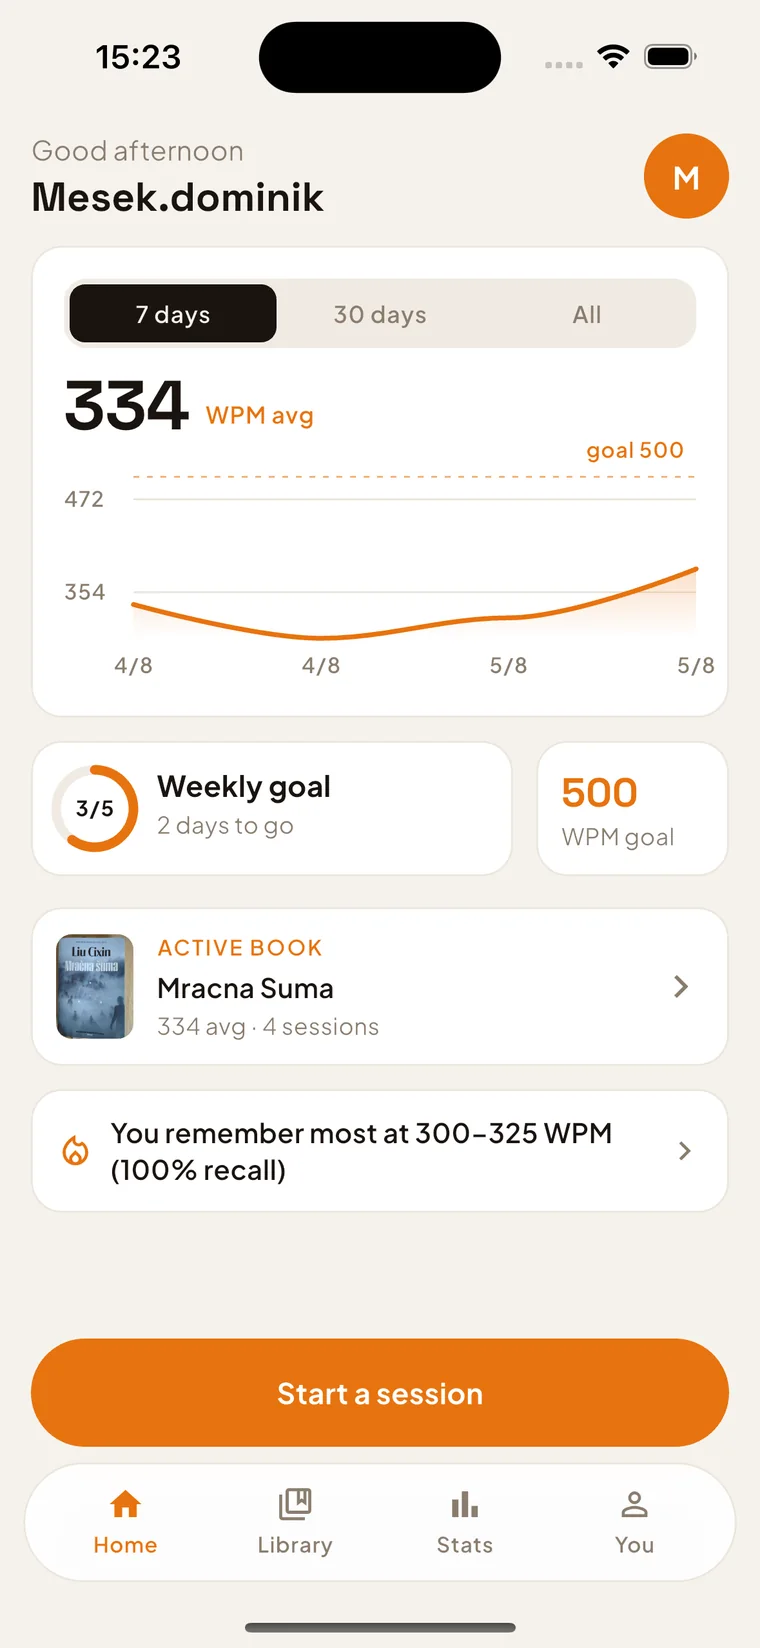
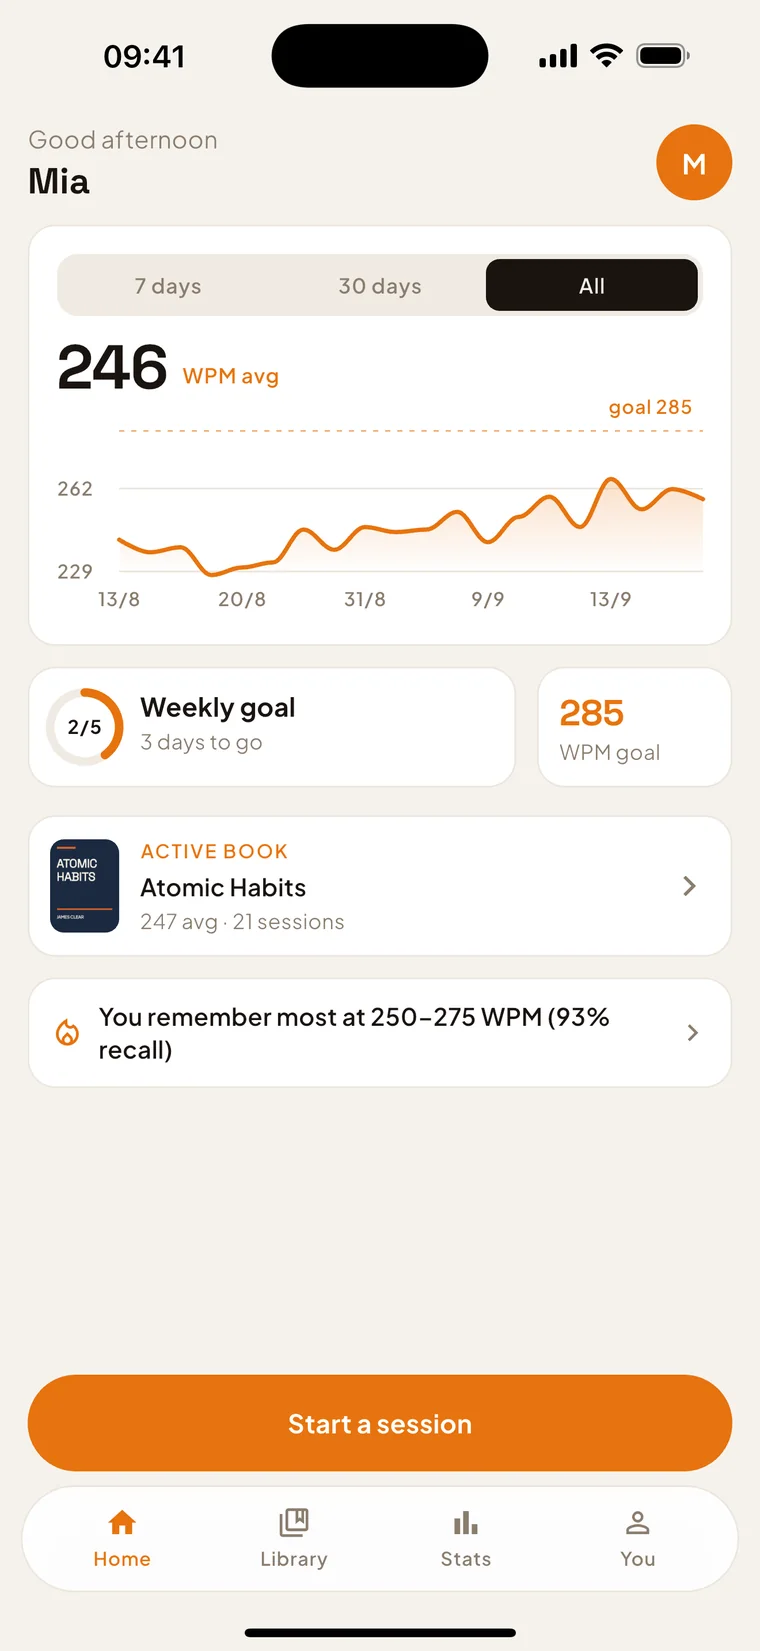
chore(screens): refresh app screenshots from latest captures
Replace every on-page screenshot with the current app captures. Alt text
is rewritten to match the new figures, since it also feeds the JSON-LD
`screenshot` entries and /llms.txt — stale numbers there would contradict
the images.

The hero and gallery `home` tile use the all-time range, which shows the
fuller trend line than the 7-day view.

Three screens had no counterpart in the new set:

- `scan` keeps its earlier export. It is a static camera-permission
  prompt with no data on it, so it does not clash with the new shots.
- `trend`, `productive` and `goal` are dropped. Their only versions
  showed a 500 WPM goal and afternoon as the peak window, against the
  new 285 goal and evening — two datasets in one gallery.

Those slots now hold the comprehension flow (quiz, score, review), and
step 03 moves from the book detail to the recall score, which matches
the copy more directly.

Intrinsic height goes 1648 -> 1651; the new captures are 1320x2868.
`scan` keeps 1648 explicitly.

diff --git a/content/site.ts b/content/site.ts
@@ -118,7 +118,7 @@ export type Screen = {
   h: number;
 };
 
-const S = (src: string, caption: string, alt: string, h = 1648): Screen => ({
+const S = (src: string, caption: string, alt: string, h = 1651): Screen => ({
   src: `/screens/${src}.webp`,
   caption,
   alt,
@@ -130,68 +130,68 @@ export const screens = {
   home: S(
     "home",
     "Home",
-    "ReadPace home screen showing a 334 WPM 7-day average, a rising WPM trend chart against a 500 WPM goal, weekly goal progress, the active book and a sweet-spot insight card reading “You remember most at 300–325 WPM (100% recall)”.",
+    "ReadPace home screen showing a 246 WPM all-time average against a 285 WPM goal, a rising reading-speed chart, weekly goal progress at 2 of 5, the active book “Atomic Habits” at 247 WPM average over 21 sessions and a sweet-spot insight card reading “You remember most at 250–275 WPM (93% recall)”.",
   ),
   sweetSpot: S(
     "sweet-spot",
     "Reading sweet spot",
-    "ReadPace reading sweet spot screen: recall grouped into 25-WPM bands, with the 300–325 WPM band highlighted at 100% recall and a note that recall drops to 50% above 325 WPM.",
+    "ReadPace reading sweet spot screen: recall grouped into 25-WPM bands, with the 250–275 WPM band highlighted at 93% recall and a note that recall drops to 78% above 275 WPM.",
   ),
   timer: S(
     "timer",
     "Session timer",
-    "ReadPace reading session timer running at 0:08 with the active book “Mracna Suma” and Pause and “Finish & scan” buttons.",
+    "ReadPace reading session timer running at 34:00 with the active book “Atomic Habits” and Pause and “Finish & scan” buttons.",
   ),
   scan: S(
     "scan",
     "Page scan",
     "ReadPace camera prompt: “Scan the page to count the words”, noting the camera is used only to count words and that photos are processed on the device and never leave the phone.",
+    1648,
+  ),
+  quiz: S(
+    "quiz",
+    "Comprehension quiz",
+    "ReadPace comprehension quiz, question 1 of 6, asking what the author says is the real difference between goals and systems, with three answer options and a “No idea” escape.",
+  ),
+  score: S(
+    "score",
+    "Recall score",
+    "ReadPace comprehension result: 83% recall marked “strong recall”, alongside 271 WPM and 5 of 6 correct, with a note that this session landed right in the reader's sweet spot.",
+  ),
+  review: S(
+    "review",
+    "Answer review",
+    "ReadPace quiz review listing all six questions with the correct answers marked in green and the one missed answer struck through in red beside the correct one.",
   ),
   book: S(
     "book",
     "Book detail",
-    "ReadPace book detail for “Mracna Suma” showing 295 low, 334 average and 383 high WPM, 73% average recall across 4 tested sessions, a speed-across-sessions chart and recent sessions with WPM and recall rings.",
+    "ReadPace book detail for “Atomic Habits” showing 228 low, 247 average and 271 high WPM, 89% average recall across 16 tested sessions, a speed-across-sessions chart and recent sessions with WPM and recall rings.",
   ),
   stats: S(
     "stats",
     "Stats",
-    "ReadPace stats screen with a 30-day WPM chart, 383 personal best, 9 sessions, 302 average WPM, a most-productive-time chart favouring the afternoon and the reading sweet-spot card.",
-    1551,
-  ),
-  trend: S(
-    "trend",
-    "WPM over time",
-    "ReadPace “WPM over time” detail screen showing 383 WPM latest over the last 30 days and the explanation that WPM equals words read divided by minutes read.",
+    "ReadPace stats screen with a 30-day WPM chart against a 285 goal, 296 personal best, 67 sessions, 237 average WPM, a most-productive-time chart favouring the evening and the reading sweet-spot card.",
   ),
   category: S(
     "category",
     "By category",
-    "ReadPace “Reading by category” screen: Science Fiction read fastest at 334 WPM average with 73% recall, compared against History at 284 WPM.",
-  ),
-  productive: S(
-    "productive",
-    "Best time of day",
-    "ReadPace most-productive-time detail screen comparing average reading speed across morning, afternoon and evening sessions.",
+    "ReadPace “Reading by category” screen: Self-Help read fastest at 247 WPM average with 89% recall, compared down the list to History at 194 WPM.",
   ),
   library: S(
     "library",
     "Library",
-    "ReadPace library screen listing the active book “Mracna Suma” at 334 WPM average over 4 sessions and “Sapiens” at 931 WPM average over 7 sessions.",
+    "ReadPace library screen with “Atomic Habits” as the active book at 247 WPM average over 21 sessions, above Deep Work, Educated, Project Hail Mary and Sapiens with their own averages and sparklines.",
   ),
   sessions: S(
     "sessions",
     "Session history",
-    "ReadPace recent sessions list showing each session's date, word count, duration, WPM and recall percentage.",
-  ),
-  goal: S(
-    "goal",
-    "WPM goal",
-    "ReadPace WPM goal editor, where the target reading speed can be set anywhere from 50 to 1000 words per minute.",
+    "ReadPace session history showing each session's date, word count, duration, WPM and recall ring — with untested sessions left blank rather than scored.",
   ),
   you: S(
     "you",
     "Settings",
-    "ReadPace “You” tab with plan status, remaining free comprehension tests, the comprehension-test toggle and light/dark theme selection.",
+    "ReadPace “You” tab with plan status, the 285 WPM goal, the comprehension-test toggle, theme selection and an opt-in for anonymous usage data.",
   ),
 } satisfies Record<string, Screen>;
 
@@ -201,13 +201,13 @@ export const gallery: Screen[] = [
   screens.sweetSpot,
   screens.stats,
   screens.book,
-  screens.trend,
+  screens.quiz,
+  screens.score,
+  screens.review,
   screens.category,
-  screens.productive,
   screens.library,
   screens.sessions,
   screens.timer,
-  screens.goal,
   screens.you,
 ];
 
@@ -233,7 +233,7 @@ export const steps = [
     n: "03",
     title: "See what stayed with you",
     body: "Take an optional quiz about those pages. See your recall alongside your speed, and get to know your reading rhythm.",
-    screen: screens.book,
+    screen: screens.score,
     detail: `${facts.quizMin}–${facts.quizMax} questions, scaled to how much you scanned.`,
   },
 ] as const;

diff --git a/tools/build-screens.py b/tools/build-screens.py
@@ -22,30 +22,30 @@ import sys
 
 from PIL import Image
 
-DEFAULT_SRC = os.path.expanduser(
-    "~/Workspace/private/readpace_v2/screenshots"
+DEFAULT_SRC = os.path.join(
+    os.path.dirname(os.path.dirname(os.path.abspath(__file__))), "screenshots"
 )
 OUT = os.path.join(os.path.dirname(os.path.dirname(os.path.abspath(__file__))), "public/screens")
 WIDTH = 760
 
 # (source file, output name, pixels to crop off the bottom of the original)
 #
-# `12-stats.png` is cropped because the capture caught a mid-scroll frame with
-# content bleeding under the tab bar.
+# `scan.webp` has no counterpart in the current capture set — the camera
+# permission screen is a static prompt with no data on it, so the older export
+# is kept as-is. Everything else comes from `screenshots/`.
 JOBS = [
-    ("01-home-7days.png", "home", 0),
-    ("04-sweet-spot-detail.png", "sweet-spot", 0),
-    ("24-session-start.png", "scan", 0),
-    ("26-session-timer.png", "timer", 0),
+    ("03-home-all-time.png", "home", 0),
+    ("04-reading-sweet-spot.png", "sweet-spot", 0),
+    ("08-reading-session-timer.png", "timer", 0),
     ("06-book-detail.png", "book", 0),
-    ("12-stats.png", "stats", 150),
-    ("20-stat-wpm-trend.png", "trend", 0),
-    ("14-stat-category-detail.png", "category", 0),
+    ("13-stats-overview.png", "stats", 0),
+    ("14-stats-by-category.png", "category", 0),
     ("05-library.png", "library", 0),
-    ("15-stat-productive-time.png", "productive", 0),
-    ("23-wpm-goal-editor.png", "goal", 0),
-    ("18-stat-sessions.png", "sessions", 0),
-    ("21-you-settings.png", "you", 0),
+    ("07-book-session-history.png", "sessions", 0),
+    ("10-comprehension-question.png", "quiz", 0),
+    ("11-comprehension-score.png", "score", 0),
+    ("12-comprehension-review.png", "review", 0),
+    ("15-profile-you.png", "you", 0),
 ]
 
 
